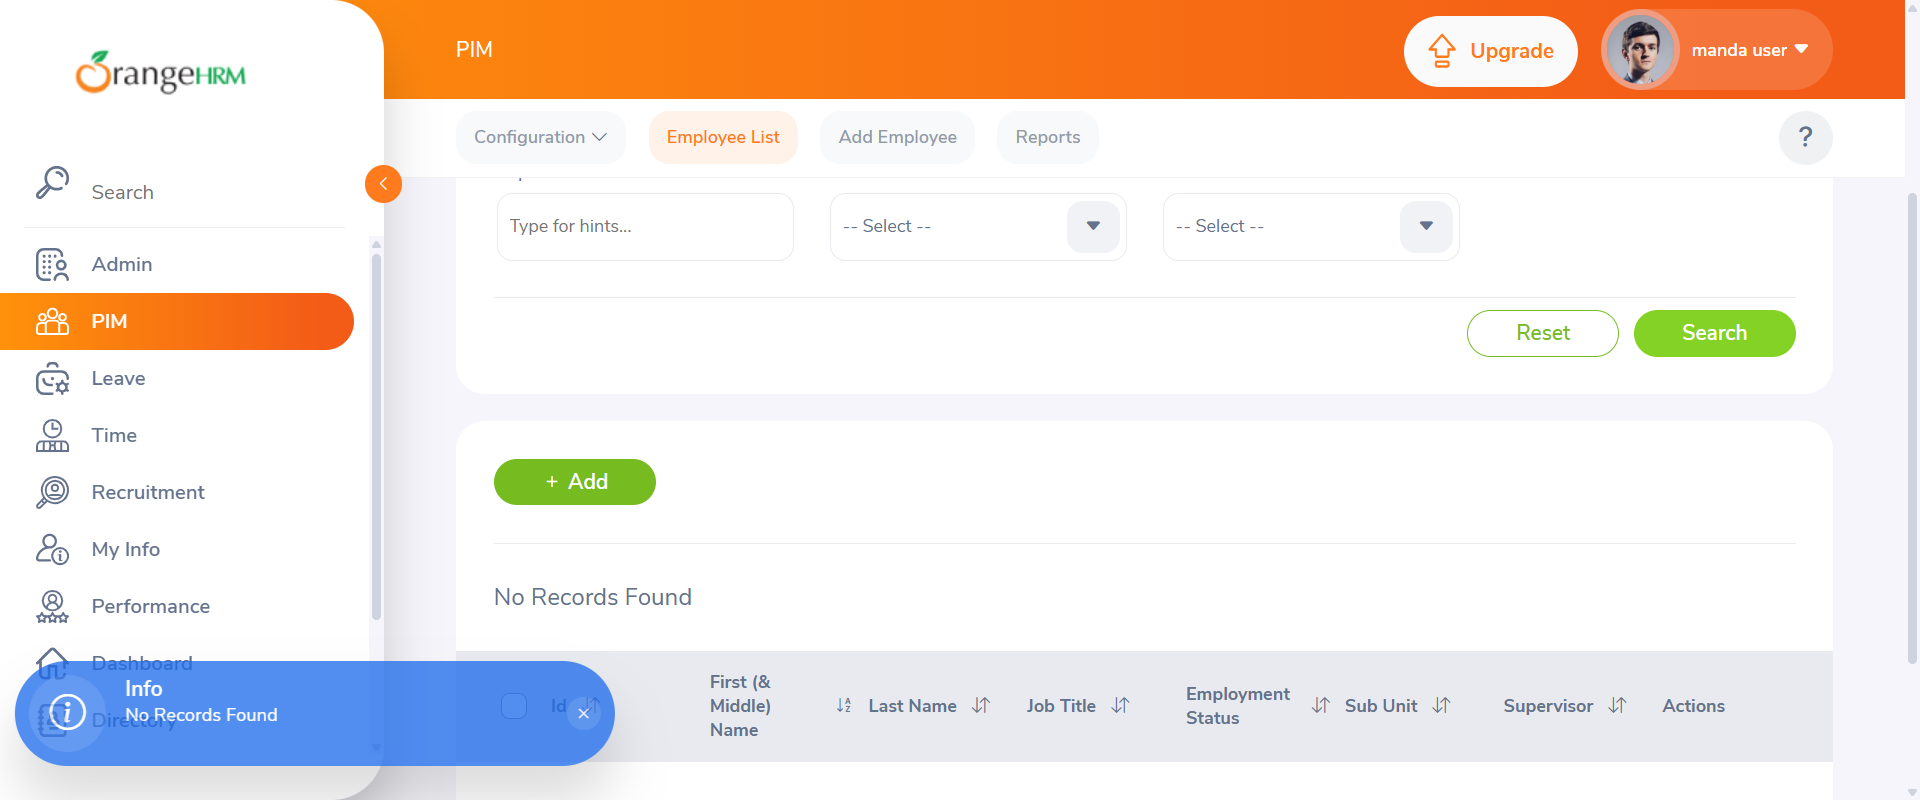
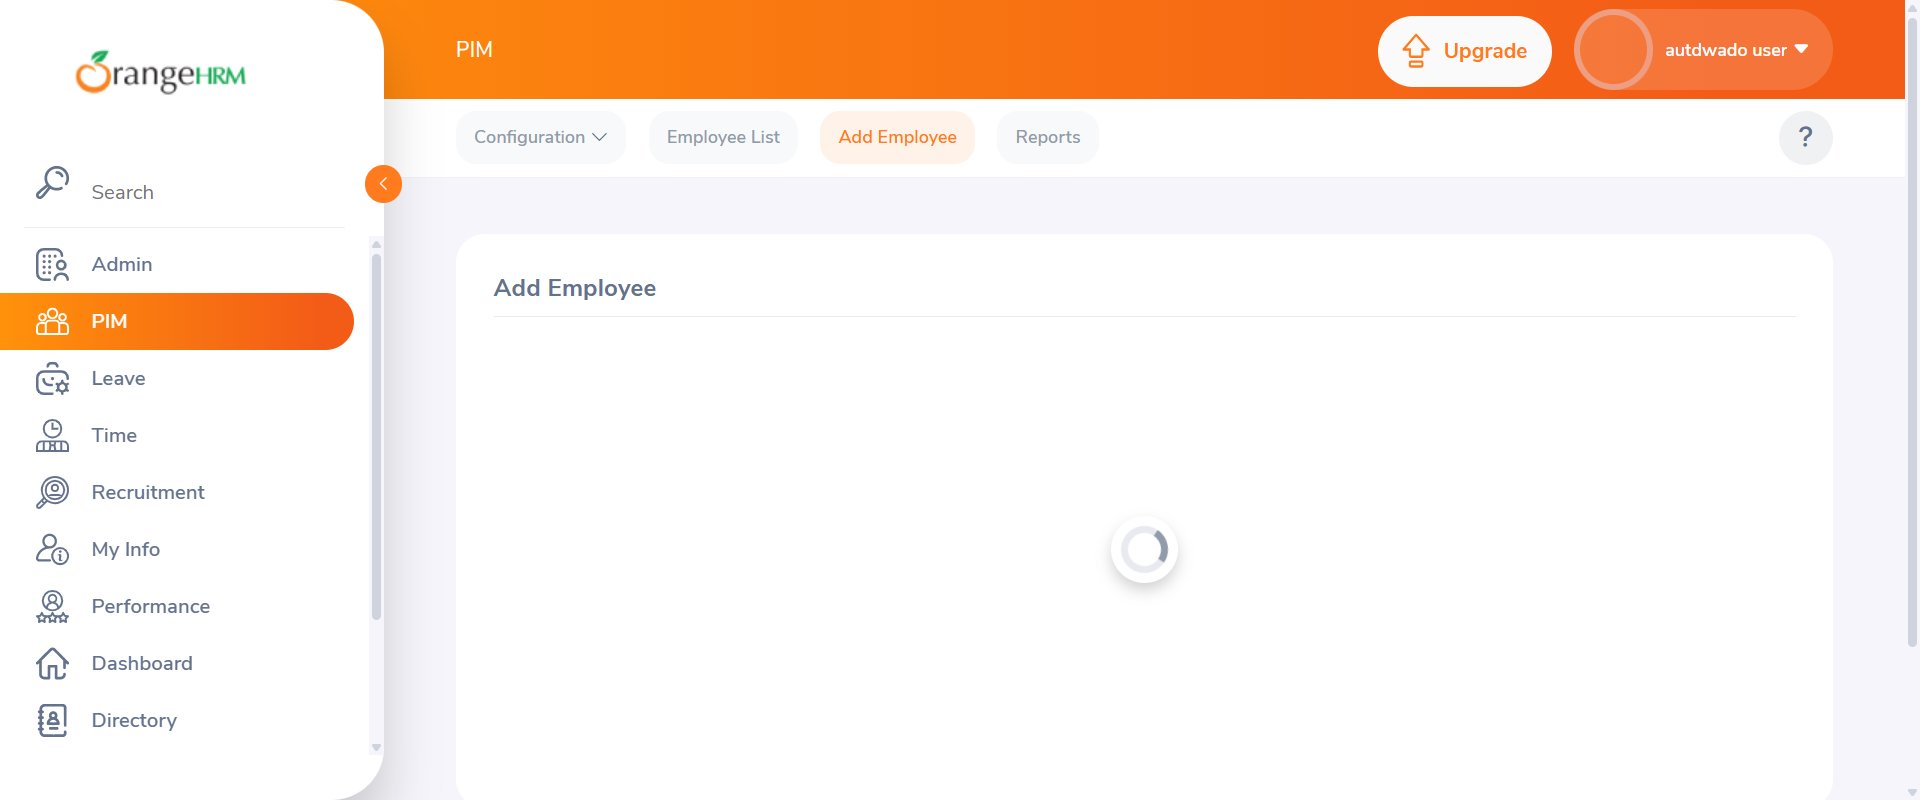
updated delete test steps

diff --git a/src/test/java/tests/PIMTests.java b/src/test/java/tests/PIMTests.java
@@ -5,16 +5,21 @@ import base.BaseTest;
 import org.testng.Assert;
 
 import org.testng.annotations.BeforeMethod;
+
 import org.testng.annotations.Test;
 
 import pages.LoginPage;
+
 import pages.PIMPage;
+
+import utilities.TestDataUtil;
 
 public class PIMTests extends BaseTest {
 
     PIMPage pim;
 
     @BeforeMethod
+
     public void loginBeforeTest() {
 
         LoginPage login = new LoginPage(getDriver());
@@ -25,11 +30,11 @@ public class PIMTests extends BaseTest {
 
     }
 
-    // TC01 Navigate to PIM
-    @Test
-    public void TC11_navigateToPIM(){
+    // TC11 Navigate to PIM
 
-        PIMPage pim = new PIMPage(getDriver());
+    @Test
+
+    public void TC11_navigateToPIM(){
 
         pim.clickPIM();
 
@@ -37,11 +42,11 @@ public class PIMTests extends BaseTest {
 
     }
 
-    // TC02 Open Add Employee Page
-    @Test
-    public void TC12_openAddEmployeePage(){
+    // TC12 Open Add Employee Page
 
-        PIMPage pim = new PIMPage(getDriver());
+    @Test
+
+    public void TC12_openAddEmployeePage(){
 
         pim.clickPIM();
 
@@ -51,51 +56,61 @@ public class PIMTests extends BaseTest {
 
     }
 
-    // TC03 Enter First Name
+    // TC13 Enter First Name
+
     @Test
+
     public void TC13_enterFirstName(){
 
-        PIMPage pim = new PIMPage(getDriver());
-
         pim.clickPIM();
 
         pim.clickAddEmployee();
 
-        pim.enterFirstName("Apex");
+        String firstName = TestDataUtil.generateFirstName();
+
+        pim.enterFirstName(firstName);
 
     }
 
-    // TC04 Enter Last Name
+    // TC14 Enter Last Name
+
     @Test
+
     public void TC14_enterLastName(){
 
-        PIMPage pim = new PIMPage(getDriver());
-
         pim.clickPIM();
 
         pim.clickAddEmployee();
 
-        pim.enterFirstName("Apex");
+        String firstName = TestDataUtil.generateFirstName();
 
-        pim.enterLastName("Tester");
+        String lastName = TestDataUtil.generateLastName();
+
+        pim.enterFirstName(firstName);
+
+        pim.enterLastName(lastName);
 
     }
 
-    // TC05 Save Employee
+    // TC15 Save Employee
+
     @Test
+
     public void TC15_saveEmployee(){
 
-        PIMPage pim = new PIMPage(getDriver());
-
         pim.clickPIM();
 
         pim.clickAddEmployee();
 
-        pim.enterFirstName("Apex");
+        String firstName = TestDataUtil.generateFirstName();
 
-        pim.enterLastName("Tester");
+        String lastName = TestDataUtil.generateLastName();
 
-        String empId = String.valueOf((int)(Math.random()*900000)+100000);
+        String empId = TestDataUtil.generateEmployeeId();
+
+        pim.enterFirstName(firstName);
+
+        pim.enterLastName(lastName);
 
         pim.enterEmployeeId(empId);
 
@@ -105,21 +120,25 @@ public class PIMTests extends BaseTest {
 
     }
 
-    // TC06 Verify Personal Details Page
+    // TC16 Verify Personal Details Page
+
     @Test
+
     public void TC16_verifyPersonalDetailsPage(){
 
-        PIMPage pim = new PIMPage(getDriver());
-
         pim.clickPIM();
 
         pim.clickAddEmployee();
 
-        pim.enterFirstName("John");
+        String firstName = TestDataUtil.generateFirstName();
 
-        pim.enterLastName("Doe");
+        String lastName = TestDataUtil.generateLastName();
 
-        String empId = String.valueOf((int)(Math.random()*900000)+100000);
+        String empId = TestDataUtil.generateEmployeeId();
+
+        pim.enterFirstName(firstName);
+
+        pim.enterLastName(lastName);
 
         pim.enterEmployeeId(empId);
 
@@ -129,11 +148,11 @@ public class PIMTests extends BaseTest {
 
     }
 
-    // TC07 Navigate to Employee List
-    @Test
-    public void TC17_navigateToEmployeeList(){
+    // TC17 Navigate to Employee List
 
-        PIMPage pim = new PIMPage(getDriver());
+    @Test
+
+    public void TC17_navigateToEmployeeList(){
 
         pim.clickPIM();
 
@@ -143,49 +162,67 @@ public class PIMTests extends BaseTest {
 
     }
 
-    // TC08 Search Employee
+    // TC18 Search Employee
+
     @Test
+
     public void TC18_searchEmployee(){
 
-        PIMPage pim = new PIMPage(getDriver());
-
         pim.clickPIM();
 
         pim.clickEmployeeList();
 
-        pim.searchEmployee("Apex");
+        pim.searchEmployee("Dhanu");
 
         pim.clickSearch();
 
     }
 
-    // TC09 Verify Employee Search
+    // TC19 Verify Employee Search
+
     @Test
+
     public void TC19_verifyEmployeeSearch(){
 
-        PIMPage pim = new PIMPage(getDriver());
-
         pim.clickPIM();
 
         pim.clickEmployeeList();
 
-        pim.searchEmployee("Apex");
+        pim.searchEmployee("Dhanu");
 
         pim.clickSearch();
 
     }
 
-    // TC10 Delete Employee
+    // TC20 Delete Employee
+
     @Test
+
     public void TC20_deleteEmployee(){
 
-        PIMPage pim = new PIMPage(getDriver());
+        pim.clickPIM();
+
+        pim.clickAddEmployee();
+
+        String firstName = TestDataUtil.generateFirstName();
+
+        String lastName = TestDataUtil.generateLastName();
+
+        String empId = TestDataUtil.generateEmployeeId();
+
+        pim.enterFirstName(firstName);
+
+        pim.enterLastName(lastName);
+
+        pim.enterEmployeeId(empId);
+
+        pim.clickSave();
 
         pim.clickPIM();
 
         pim.clickEmployeeList();
 
-        pim.searchEmployee("Dhanu Apex");
+        pim.searchEmployee(firstName + " " + lastName);
 
         pim.clickSearch();
 

diff --git a/src/test/java/utilities/TestDataUtil.java b/src/test/java/utilities/TestDataUtil.java
@@ -1,0 +1,12 @@
+package utilities;
+public class TestDataUtil {
+    public static String generateFirstName(){
+        return "Dhanu";
+    }
+    public static String generateLastName(){
+        return "Apex" + System.currentTimeMillis();
+    }
+    public static String generateEmployeeId(){
+        return String.valueOf((int)(Math.random()*900000)+100000);
+    }
+}
